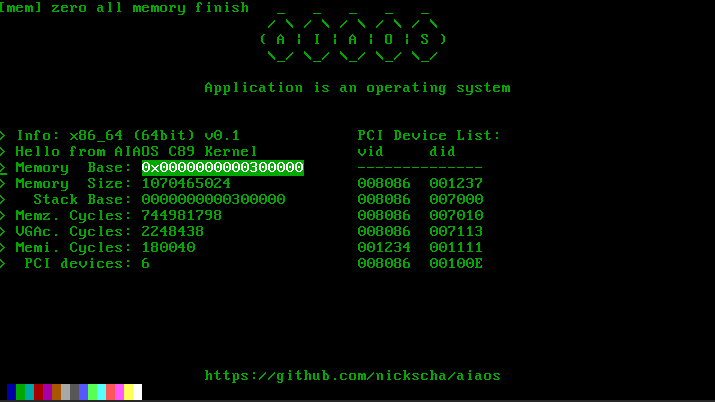
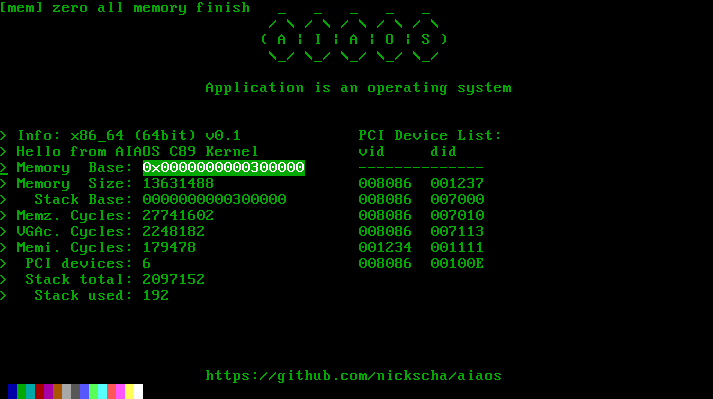
[CORE] add stack usage identification

diff --git a/aiaos_kernel.c b/aiaos_kernel.c
@@ -45,6 +45,8 @@ void _start_kernel(void)
   unsigned long meminit_cpu_cycles_end;
   unsigned long memzero_cpu_cycles_start;
   unsigned long memzero_cpu_cycles_end;
+  unsigned long stack_total;
+  unsigned int stack_usage;
 
   meminit_cpu_cycles_start = aiaos_perf_rdtsc();
   aiaos_kernel_memory_initialize();
@@ -116,6 +118,17 @@ void _start_kernel(void)
     aiaos_kernel_types_uint_to_hex(buf, d.device_id, 6);
     aiaos_kernel_vga_write_string(buf, 11 + i, 40 + 8, AIAOS_KERNEL_VGA_COLOR_GREEN);
   }
+
+  /* Stack usage */
+  stack_total = AIAOS_KERNEL_STACK_SIZE;
+  aiaos_kernel_types_ultoa(stack_total, buf);
+  aiaos_kernel_vga_write_string(">  Stack total:", 17, 0, AIAOS_KERNEL_VGA_COLOR_GREEN);
+  aiaos_kernel_vga_write_string(buf, 17, 16, AIAOS_KERNEL_VGA_COLOR_GREEN);
+
+  stack_usage = aiaos_kernel_memory_stack_usage();
+  aiaos_kernel_types_ultoa(stack_usage, buf);
+  aiaos_kernel_vga_write_string(">   Stack used:", 18, 0, AIAOS_KERNEL_VGA_COLOR_GREEN);
+  aiaos_kernel_vga_write_string(buf, 18, 16, AIAOS_KERNEL_VGA_COLOR_GREEN);
 
   /* Footer */
   aiaos_kernel_vga_write_string("https://github.com/nickscha/aiaos", 23, aiaos_logo_long_col_offset, AIAOS_KERNEL_VGA_COLOR_GREEN);

diff --git a/aiaos_kernel_memory.h b/aiaos_kernel_memory.h
@@ -2,10 +2,12 @@
 #define AIAOS_KERNEL_MEMORY_H
 
 /* aiaos_linker.ld variables for memory addresses */
+extern char _stack_bottom; /* Stack bottom address as specified in aiaios_linker.ld*/
 extern char _stack_top; /* Stack top address as specified in aiaios_linker.ld*/
 extern unsigned long MEM_TOTAL;
 
 #define AIAOS_KERNEL_MEMORY_OFFSET ((unsigned long)&_stack_top) /* Stack Offset. See aiaos_linker.ld */
+#define AIAOS_KERNEL_STACK_SIZE ((unsigned long)&_stack_top - (unsigned long)&_stack_bottom) /* Stack Offset. See aiaos_linker.ld */
 
 static void *aiaos_kernel_memory = 0;
 static unsigned long aiaos_kernel_memory_size = 0;
@@ -73,6 +75,18 @@ void aiaos_kernel_memory_zero(void *ptr, unsigned long size)
             current = PCIE_MMIO_RESERVED_END + 1;
         }
     }
+}
+
+unsigned int aiaos_kernel_memory_get_esp(void)
+{
+    unsigned int esp;
+    __asm __volatile("mov %%esp, %0" : "=r"(esp));
+    return esp;
+}
+
+unsigned int aiaos_kernel_memory_stack_usage(void)
+{
+    return (unsigned int)AIAOS_KERNEL_MEMORY_OFFSET - aiaos_kernel_memory_get_esp();
 }
 
 #endif /* AIAOS_KERNEL_MEMORY_H */
